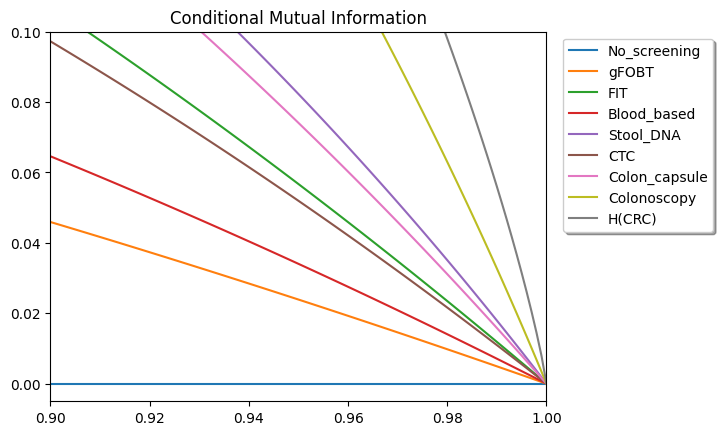
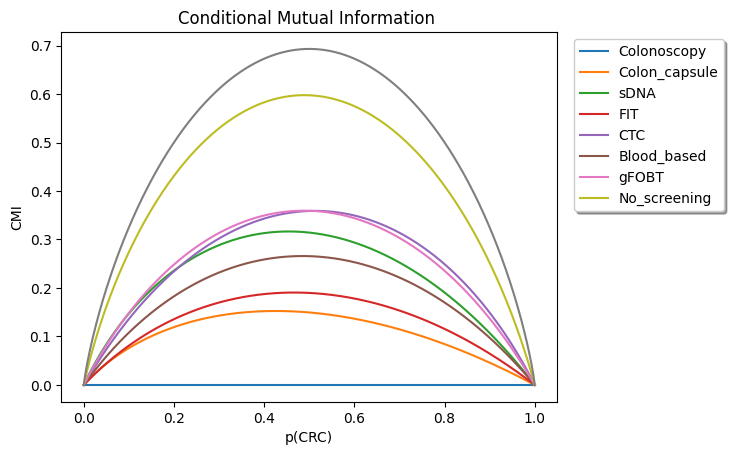
update

diff --git a/use_case_new_strategy.py b/use_case_new_strategy.py
@@ -39,7 +39,7 @@ def use_case_new_strategy(net = None,
         from_elicitation = cfg["from_elicitation"],  
         logger = None,
         log_dir = None,
-        run_label = '',
+        run_label = 'run',
         best_f1_score = {}
     ):
 
@@ -104,18 +104,21 @@ def use_case_new_strategy(net = None,
 
 
     if single_run:
+        seed = (0,)
+
         logger.info("A single simulation of the tests will be performed...")
 
         df_test, counts, possible_outcomes = calculate_network_utilities(net, df_test, logger=logger, full_calculation = True)
         df_test_for_new_str_w_lim = df_test.copy()
         df_test_for_old_str = df_test.copy()
+        df_test_comp = df_test.copy()
         plot_screening_counts(counts, possible_outcomes, operational_limit, log_dir=log_dir)
         logger.info("Calculation finished!")
 
 
         logger.info("----------------------")
         logger.info("New screening strategy without operational limits")
-        df_test, total_cost, time_taken, positive_predictions_counts = new_screening_strategy(df_test, net, possible_outcomes,  counts, limit = False,  logger=logger, verbose = True)
+        df_test, total_cost, time_taken, positive_predictions_counts = new_screening_strategy(df_test, net, possible_outcomes,  counts, limit = False,  logger=logger, seed=seed, verbose = True)
         counts_best_opt = df_test["best_option"].value_counts()
         counts_best_opt = counts_best_opt.reindex(possible_outcomes, fill_value = 0)
 
@@ -129,6 +132,7 @@ def use_case_new_strategy(net = None,
         y_true_new = df_test["CRC"]
         y_pred_new = df_test["Final_decision"]
 
+        df_test.to_csv(f"{log_dir}/df_test.csv")
         counts_new = df_test.groupby(["best_option", "Prediction_screening", "Prediction_colonoscopy", "Final_decision","CRC"])[["CRC"]].count()
         counts_new.to_csv(f"{log_dir}/counts_new.csv")
         logger.info(f"---> Distribution of positive predictions: \n {counts_new}")
@@ -139,7 +143,7 @@ def use_case_new_strategy(net = None,
 
         logger.info("----------------------")
         logger.info("New screening strategy with operational limits")
-        df_test_for_new_str_w_lim_util, total_cost_w_lim, time_taken_w_lim, positive_prediction_counts = new_screening_strategy(df_test_for_new_str_w_lim, net, possible_outcomes, counts, limit = True, operational_limit = operational_limit,  logger=logger, verbose = True)
+        df_test_for_new_str_w_lim_util, total_cost_w_lim, time_taken_w_lim, positive_prediction_counts = new_screening_strategy(df_test_for_new_str_w_lim, net, possible_outcomes, counts, limit = True, operational_limit = operational_limit, seed=seed,  logger=logger, verbose = True)
         counts_best_opt_w_lim = df_test_for_new_str_w_lim_util["best_option_w_lim"].value_counts()
         counts_best_opt_w_lim = counts_best_opt_w_lim.reindex(possible_outcomes, fill_value = 0)
         num_participants_new_lim = df_test_for_new_str_w_lim_util.shape[0] - counts_best_opt_w_lim["No_scr_no_col"]
@@ -152,6 +156,7 @@ def use_case_new_strategy(net = None,
         y_true_new = df_test_for_new_str_w_lim_util["CRC"]
         y_pred_new = df_test_for_new_str_w_lim_util["Final_decision"]
 
+        df_test_for_new_str_w_lim_util.to_csv(f"{log_dir}/df_test_new_w_lim.csv")
         counts_new_str_w_lim = df_test_for_new_str_w_lim_util.groupby(["best_option_w_lim", "Prediction_screening", "Prediction_colonoscopy", "Final_decision", "CRC"])[["CRC"]].count()
         counts_new_str_w_lim.to_csv(f"{log_dir}/counts_new_w_lim.csv")
         logger.info(f"---> Distribution of positive predictions: \n {counts_new_str_w_lim}")
@@ -162,7 +167,7 @@ def use_case_new_strategy(net = None,
 
         logger.info("----------------------")
         logger.info("Old screening strategy")
-        df_test_for_old_str, total_cost_old, time_taken_old = old_screening_strategy(df_test_for_old_str, net, possible_outcomes, logger=logger, verbose = True)
+        df_test_for_old_str, total_cost_old, time_taken_old = old_screening_strategy(df_test_for_old_str, net, possible_outcomes, logger=logger, seed=seed ,  verbose = True)
         counts_best_opt_old = df_test_for_old_str["best_option"].value_counts()
         counts_best_opt_old = counts_best_opt_old.reindex(possible_outcomes, fill_value = 0)
         num_participants_old = df_test_for_old_str.shape[0] - counts_best_opt_old["No_scr_no_col"]
@@ -175,6 +180,7 @@ def use_case_new_strategy(net = None,
         y_true_old = df_test_for_old_str["CRC"]
         y_pred_old = df_test_for_old_str["Final_decision"]
 
+        df_test_for_old_str.to_csv(f"{log_dir}/df_test_old.csv")
         counts_old = df_test_for_old_str.groupby(["best_option", "Prediction_screening", "Prediction_colonoscopy", "Final_decision", "CRC"])[["CRC"]].count()
         counts_old.to_csv(f"{log_dir}/counts_old.csv")
         logger.info(f"---> Distribution of positive predictions: \n {counts_old}")
@@ -188,24 +194,25 @@ def use_case_new_strategy(net = None,
         if use_case_new_test == True:
             operational_limit_comp["New_test"] = 0
 
-        df_test_for_new_str_w_lim_util, total_cost_w_lim, time_taken_w_lim, positive_prediction_counts = new_screening_strategy(df_test_for_new_str_w_lim, net, possible_outcomes, counts, limit = True, operational_limit = operational_limit_comp,  logger=logger, verbose = True)
-        counts_best_opt_w_lim = df_test_for_new_str_w_lim_util["best_option_w_lim"].value_counts()
-        counts_best_opt_w_lim = counts_best_opt_w_lim.reindex(possible_outcomes, fill_value = 0)
-        num_participants_new_lim = df_test_for_new_str_w_lim_util.shape[0] - counts_best_opt_w_lim["No_scr_no_col"]
+        df_test_comp, total_cost_comp, time_taken_comp, positive_prediction_counts = new_screening_strategy(df_test_comp, net, possible_outcomes, counts, limit = True, operational_limit = operational_limit_comp, seed=seed ,  logger=logger, verbose = True)
+        counts_best_opt_comp = df_test_comp["best_option_w_lim"].value_counts()
+        counts_best_opt_comp= counts_best_opt_comp.reindex(possible_outcomes, fill_value = 0)
+        num_participants_comp = df_test_comp.shape[0] - counts_best_opt_comp["No_scr_no_col"]
 
-        logger.info(f"---> Total cost of the strategy: {total_cost_w_lim:.2f} €")
-        logger.info(f"---> Mean cost per screened participant: {total_cost_w_lim/num_participants_new_lim:.2f} €")
-        logger.info(f"---> Mean cost per individual in the total population: {total_cost_w_lim/df_test.shape[0]:.2f} €")
-        logger.info(f"---> Total time for the simulation: {time_taken_w_lim:.2f} seconds")
+        logger.info(f"---> Total cost of the strategy: {total_cost_comp:.2f} €")
+        logger.info(f"---> Mean cost per screened participant: {total_cost_w_lim/num_participants_comp:.2f} €")
+        logger.info(f"---> Mean cost per individual in the total population: {total_cost_comp/df_test.shape[0]:.2f} €")
+        logger.info(f"---> Total time for the simulation: {time_taken_comp:.2f} seconds")
 
-        y_true_new = df_test_for_new_str_w_lim_util["CRC"]
-        y_pred_new = df_test_for_new_str_w_lim_util["Final_decision"]
+        y_true_new = df_test_comp["CRC"]
+        y_pred_new = df_test_comp["Final_decision"]
 
-        counts_new_str_w_lim = df_test_for_new_str_w_lim_util.groupby(["best_option_w_lim", "Prediction_screening", "Prediction_colonoscopy", "Final_decision", "CRC"])[["CRC"]].count()
-        counts_new_str_w_lim.to_csv(f"{log_dir}/counts_new_w_lim.csv")
-        logger.info(f"---> Distribution of positive predictions: \n {counts_new_str_w_lim}")
+        df_test_comp.to_csv(f"{log_dir}/df_test_comp.csv")
+        counts_new_str_comp = df_test_comp.groupby(["best_option_w_lim", "Prediction_screening", "Prediction_colonoscopy", "Final_decision", "CRC"])[["CRC"]].count()
+        counts_new_str_comp.to_csv(f"{log_dir}/counts_new_w_lim_comp.csv")
+        logger.info(f"---> Distribution of positive predictions: \n {counts_new_str_comp}")
 
-        report, conf_matrix = plot_classification_results(y_true_new, y_pred_new, total_cost = total_cost_w_lim,  label = f"new_strategy_with_limits_{run_label}", log_dir = log_dir)
+        report, conf_matrix = plot_classification_results(y_true_new, y_pred_new, total_cost = total_cost_comp,  label = f"new_strategy_with_limits_{run_label}", log_dir = log_dir)
         logger.info(report)
 
 

diff --git a/plots.py b/plots.py
@@ -21,7 +21,6 @@ import pdb
 # Make an array and iterate over possible values of probabilities
 def plot_cond_mut_info(net1, net2 = None, subtitle = '', plot = True, zoom = (0.1, 0.1), step = 0.001, output_dir = None):
 
-    pdb.set_trace()
     net_array = [net1]
     num_scr = len(net1.get_outcome_ids("Screening"))
     if net2 is not None:
@@ -94,8 +93,8 @@ def plot_cond_mut_info(net1, net2 = None, subtitle = '', plot = True, zoom = (0.
 
         ax.plot(np.arange(0,1+step,step), h_y_arr, label = "H(CRC)", color = color_dict["H(CRC)"])
 
-    ordered_functions = ['Colonoscopy', 'Colon_capsule', 'sDNA', 'FIT', 'CTC', 'Blood_based', 'gFOBT', 'No_screening']
-    leg = plt.legend(ordered_functions,loc='upper right', bbox_to_anchor=(1.35, 1), shadow=True)
+    handles, legend_labels = ax.get_legend_handles_labels()
+    ax.legend(handles[::-1], legend_labels[::-1], loc='upper right', bbox_to_anchor=(1.35, 1), shadow=True)
 
     title = "Conditional Mutual Information "
     plt.title(title)
@@ -130,8 +129,8 @@ def plot_cond_mut_info(net1, net2 = None, subtitle = '', plot = True, zoom = (0.
 
         ax.plot(np.arange(0,1+step,step), h_y_arr, label = "H(CRC)", color = color_dict["H(CRC)"]) 
 
-    ordered_functions = ['Colonoscopy', 'Colon_capsule', 'sDNA', 'FIT', 'CTC', 'Blood_based', 'gFOBT', 'No_screening']
-    leg = plt.legend(ordered_functions,loc='upper right', bbox_to_anchor=(1.35, 1), shadow=True)
+    handles, legend_labels = ax.get_legend_handles_labels()
+    ax.legend(handles[::-1], legend_labels[::-1], loc='upper right', bbox_to_anchor=(1.35, 1), shadow=True)
 
     title = "Conditional Mutual Information"
     plt.title(title)
@@ -168,8 +167,8 @@ def plot_cond_mut_info(net1, net2 = None, subtitle = '', plot = True, zoom = (0.
 
         ax.plot(np.arange(0,1+step,step), h_y_arr, label = "H(CRC)", color = color_dict["H(CRC)"])    
 
-    ordered_functions = ['Colonoscopy', 'Colon_capsule', 'sDNA', 'FIT', 'CTC', 'Blood_based', 'gFOBT', 'No_screening']
-    leg = plt.legend(ordered_functions,loc='upper right', bbox_to_anchor=(1.35, 1), shadow=True)
+    handles, legend_labels = ax.get_legend_handles_labels()
+    ax.legend(handles[::-1], legend_labels[::-1], loc='upper right', bbox_to_anchor=(1.35, 1), shadow=True)
     title = "Conditional Mutual Information"
     plt.title(title)
      
@@ -259,9 +258,10 @@ def plot_relative_cond_mut_info(net1, net2 = None, subtitle = '', zoom=(0.001, 0
         for screening in range(arr.shape[0]):
             ax.plot(np.arange(0,1+step,step), arr[screening], label = f"{labels[screening]}", color = color_dict[labels[screening]])    
 
-
-    ordered_functions = ['Colonoscopy', 'Colon_capsule', 'sDNA', 'FIT', 'CTC', 'Blood_based', 'gFOBT', 'No_screening']
-    leg = plt.legend(ordered_functions,loc='upper right', bbox_to_anchor=(1.35, 1), shadow=True)
+    handles, legend_labels = ax.get_legend_handles_labels()
+    ax.legend(handles[::-1], legend_labels[::-1], loc='upper right', bbox_to_anchor=(1.35, 1), shadow=True)
+    '''ordered_functions = ['Colonoscopy', 'Colon_capsule', 'sDNA', 'FIT', 'CTC', 'Blood_based', 'gFOBT', 'No_screening']
+    leg = plt.legend(ordered_functions,)'''
 
     title = "Relative Reduction of Uncertainty with respect to CRC"
     plt.title(title)
@@ -293,7 +293,8 @@ def plot_relative_cond_mut_info(net1, net2 = None, subtitle = '', zoom=(0.001, 0
         for screening in range(arr.shape[0]):
             ax.plot(np.arange(0,1+step,step), arr[screening], label = f"{labels[screening]}", color = color_dict[labels[screening]])    
 
-    leg = plt.legend(loc='upper right', bbox_to_anchor=(1.35, 1), shadow=True)
+    handles, legend_labels = ax.get_legend_handles_labels()
+    ax.legend(handles[::-1], legend_labels[::-1], loc='upper right', bbox_to_anchor=(1.35, 1), shadow=True)
     title = "Relative Reduction of Uncertainty with respect to CRC"
     plt.title(title)
      
@@ -324,7 +325,8 @@ def plot_relative_cond_mut_info(net1, net2 = None, subtitle = '', zoom=(0.001, 0
         for screening in range(arr.shape[0]):
             ax.plot(np.arange(0,1+step,step), arr[screening], label = f"{labels[screening]}", color = color_dict[labels[screening]])    
 
-    leg = plt.legend(loc='upper right', bbox_to_anchor=(1.35, 1), shadow=True)
+    handles, legend_labels = ax.get_legend_handles_labels()
+    ax.legend(handles[::-1], legend_labels[::-1], loc='upper right', bbox_to_anchor=(1.35, 1), shadow=True)
     title = "Relative Reduction of Uncertainty with respect to CRC"
     plt.title(title)
      

diff --git a/network_functions.py b/network_functions.py
@@ -191,6 +191,7 @@ def new_screening_strategy(df_test, net, possible_outcomes, counts, limit, opera
 
     for i, strategy in enumerate(possible_outcomes):
         seed_str = seed + (i,)
+        seed_col = seed + (20,)
         
         if strategy == "No_scr_no_col":
             if limit:
@@ -219,7 +220,7 @@ def new_screening_strategy(df_test, net, possible_outcomes, counts, limit, opera
             spec_col = np.array(net.get_node_definition("Results_of_Colonoscopy")).reshape(2,2,3)[0, 1 ,1]
             sens_col = np.array(net.get_node_definition("Results_of_Colonoscopy")).reshape(2,2,3)[1, 1 ,2]
 
-            df_col = simulate_test_results(sens_col, spec_col, y_selected_patients, seed = seed_str)
+            df_col = simulate_test_results(sens_col, spec_col, y_selected_patients, seed = seed_col)
 
             df_test.loc[selected_patients.index, "Prediction_colonoscopy"] = df_col["TestResult"]
             df_test.loc[selected_patients.index, "Final_decision"] = df_col["TestResult"]
@@ -246,8 +247,8 @@ def new_screening_strategy(df_test, net, possible_outcomes, counts, limit, opera
             spec_strategy = np.array(net.get_node_definition("Results_of_Screening")).reshape(2,n_screening_tests,3)[0, i-1, 1]
             sens_strategy = np.array(net.get_node_definition("Results_of_Screening")).reshape(2,n_screening_tests,3)[1, i-1, 2]
 
-            pdb.set_trace()
-            df_scr = simulate_test_results(sens_strategy, spec_strategy, selected_patients, seed = seed_str) 
+            
+            df_scr = simulate_test_results(sens_strategy, spec_strategy, y_selected_patients, seed = seed_str) 
 
             df_test.loc[selected_patients.index, "Prediction_screening"] = df_scr["TestResult"]
             df_test.loc[selected_patients.index, "Prediction_colonoscopy"] = 0
@@ -260,7 +261,7 @@ def new_screening_strategy(df_test, net, possible_outcomes, counts, limit, opera
             spec_col = np.array(net.get_node_definition("Results_of_Colonoscopy")).reshape(2,2,3)[0, 1 ,1]
             sens_col = np.array(net.get_node_definition("Results_of_Colonoscopy")).reshape(2,2,3)[1, 1 ,2]
             
-            df_col = simulate_test_results(sens_col, spec_col, y_SCR_positives, seed = seed)
+            df_col = simulate_test_results(sens_col, spec_col, y_SCR_positives, seed = seed_col)
 
             df_test.loc[SCR_positives.index, "Colonoscopy"] = "Colonoscopy"
             df_test.loc[SCR_positives.index, "Prediction_colonoscopy"] = df_col["TestResult"]
@@ -307,7 +308,7 @@ def new_screening_strategy(df_test, net, possible_outcomes, counts, limit, opera
 
 
 
-def old_screening_strategy(df_test, net, possible_outcomes, logger = None, verbose = False):
+def old_screening_strategy(df_test, net, possible_outcomes, logger = None,seed = None, verbose = False):
 
     n_screening_tests = len(possible_outcomes) - 1
 
@@ -328,7 +329,8 @@ def old_screening_strategy(df_test, net, possible_outcomes, logger = None, verbo
     spec_strategy = np.array(net.get_node_definition("Results_of_Screening")).reshape(2,n_screening_tests,3)[0, 2, 1]
     sens_strategy = np.array(net.get_node_definition("Results_of_Screening")).reshape(2,n_screening_tests,3)[1, 2, 2]
 
-    df_scr = simulate_test_results(sens_strategy, spec_strategy, y_selected_patients) 
+    seed_str = seed + (3,)
+    df_scr = simulate_test_results(sens_strategy, spec_strategy, y_selected_patients, seed = seed_str) 
 
     df_test.loc[selected_patients.index, "Prediction_screening"] = df_scr["TestResult"]
     df_test.loc[selected_patients.index, "Prediction_colonoscopy"] = 0
@@ -341,7 +343,8 @@ def old_screening_strategy(df_test, net, possible_outcomes, logger = None, verbo
     spec_col = np.array(net.get_node_definition("Results_of_Colonoscopy")).reshape(2,2,3)[0, 1 ,1]
     sens_col = np.array(net.get_node_definition("Results_of_Colonoscopy")).reshape(2,2,3)[1, 1 ,2]
 
-    df_col = simulate_test_results(sens_col, spec_col, y_FIT_positives)
+    seed_col = seed + (20,)
+    df_col = simulate_test_results(sens_col, spec_col, y_FIT_positives, seed = seed_col)
 
     df_test.loc[FIT_positives.index, "Colonoscopy"] = "Colonoscopy"
     df_test.loc[FIT_positives.index, "Prediction_colonoscopy"] = df_col["TestResult"]

diff --git a/get_info_values.py b/get_info_values.py
@@ -41,20 +41,10 @@ def mutual_info_measures(net, plot = False, p_CRC_false = None, p_CRC_true = Non
 
     # --- Colonoscopy ---------------------------------------------------------
 
-    net.update_beliefs()
-    if not plot:
-        try:
-            net.add_arc("Results_of_Screening", "Colonoscopy")
-            net.update_beliefs()
-        except:
-            pass
-
-    point_cond_mut_info_col_array = []
-    rel_point_cond_mut_info_col_array = []
-    cond_mut_info_col_array = []
-    rel_cond_mut_info_col_array = []
+    
 
     if plot:
+        net.update_beliefs()
         # For the plot of the RMI of colonoscopy, we do not consider the screening node
         
         point_cond_mut_info_col, cond_mut_info_col = calculate_values(net, p_CRC_false, p_CRC_true, "Colonoscopy", "Results_of_Colonoscopy")
@@ -77,6 +67,17 @@ def mutual_info_measures(net, plot = False, p_CRC_false = None, p_CRC_true = Non
 
 
     else:
+        net.update_beliefs()
+        try:
+            net.add_arc("Results_of_Screening", "Colonoscopy")
+            net.update_beliefs()
+        except:
+            pass
+
+        point_cond_mut_info_col_array = []
+        rel_point_cond_mut_info_col_array = []
+        cond_mut_info_col_array = []
+        rel_cond_mut_info_col_array = []
 
         net.set_evidence("Screening", "No_screening")
         net.set_evidence("Results_of_Screening", "No_pred_screening")
@@ -158,7 +159,13 @@ def mutual_info_measures(net, plot = False, p_CRC_false = None, p_CRC_true = Non
 
         dict = {"point_cond_mut_info": point_cond_mut_info, "rel_point_cond_mut_info": rel_point_cond_mut_info, "cond_mut_info": cond_mut_info, "rel_cond_mut_info": rel_cond_mut_info}
 
-
+    net.update_beliefs()
+    try:
+        net.add_arc("Results_of_Screening", "Colonoscopy")
+        net.update_beliefs()
+    except:
+        pass
+    
     return dict, dict_scr, dict_col
 
 

diff --git a/update.py b/update.py
@@ -159,7 +159,7 @@ def update_influence_diagram(model_type = None, value_function = None, elicit = 
         net2.write_file(f"{output_dir}/decision_models/DM_screening_{value_function}_{model_type}.xdsl")
     # ----------------------------------------------------------------------
 
-
+    
     # ----------------------------------------------------------------------
     logger.info("Plotting info functions...")
     if new_test:
@@ -179,11 +179,12 @@ def update_influence_diagram(model_type = None, value_function = None, elicit = 
 
     # ----------------------------------------------------------------------
     logger.info("Calculating final utilities...")
+    
 
     if model_type == "tanh":
         params = parameter_elicitation_utilities_tanh(PE_info = cfg[value_function]["PE_info"], PE_cost = cfg[value_function]["PE_cost"], rho_comfort = lambdas[2])
     elif model_type == "linear":
-        params = parameter_elicitation_utilities_linear(net, PE = cfg[value_function]["PE_prob"], PE_info = cfg[value_function]["PE_info"], PE_cost = cfg[value_function]["PE_cost"], rho_comfort = lambdas[2], value_function = value_function, logging = logger)
+        params = parameter_elicitation_utilities_linear(net2, PE = cfg[value_function]["PE_prob"], PE_info = cfg[value_function]["PE_info"], PE_cost = cfg[value_function]["PE_cost"], rho_comfort = lambdas[2], value_function = value_function, logging = logger)
 
     if params is None:
         logger.warning("Please try another initial value for the system of equations...")

diff --git a/simulations.py b/simulations.py
@@ -33,8 +33,8 @@ def simulate_test_results(sensitivity_scr, specificity_scr, y_crc, seed = None):
     scr_results = []
     col_results = []
 
-    pdb.set_trace()
-    for i, y in enumerate(y_crc):
+    # pdb.set_trace()
+    for i, y in y_crc.items():
         seed_pat = seed + (i,)
         seed_final = hash(seed_pat) % (2**32 - 1)
         np.random.seed(seed_final)
